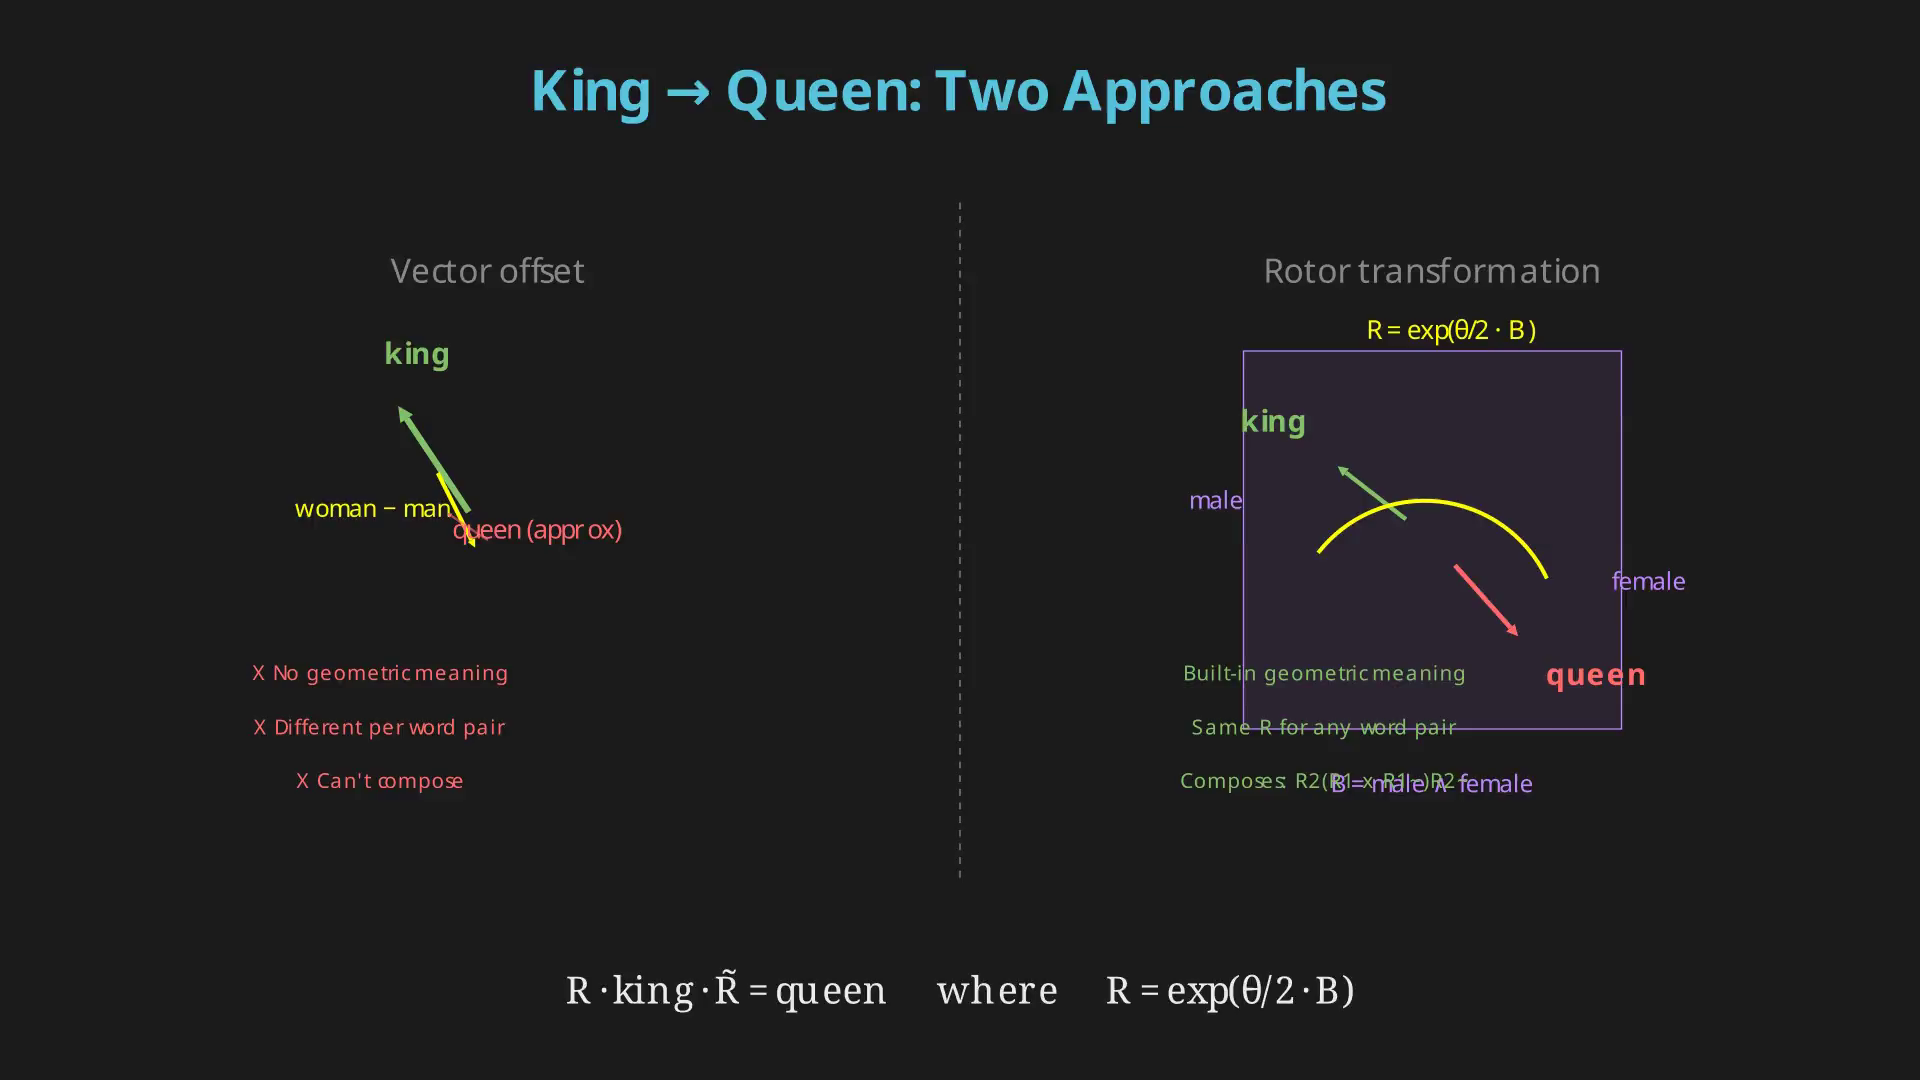
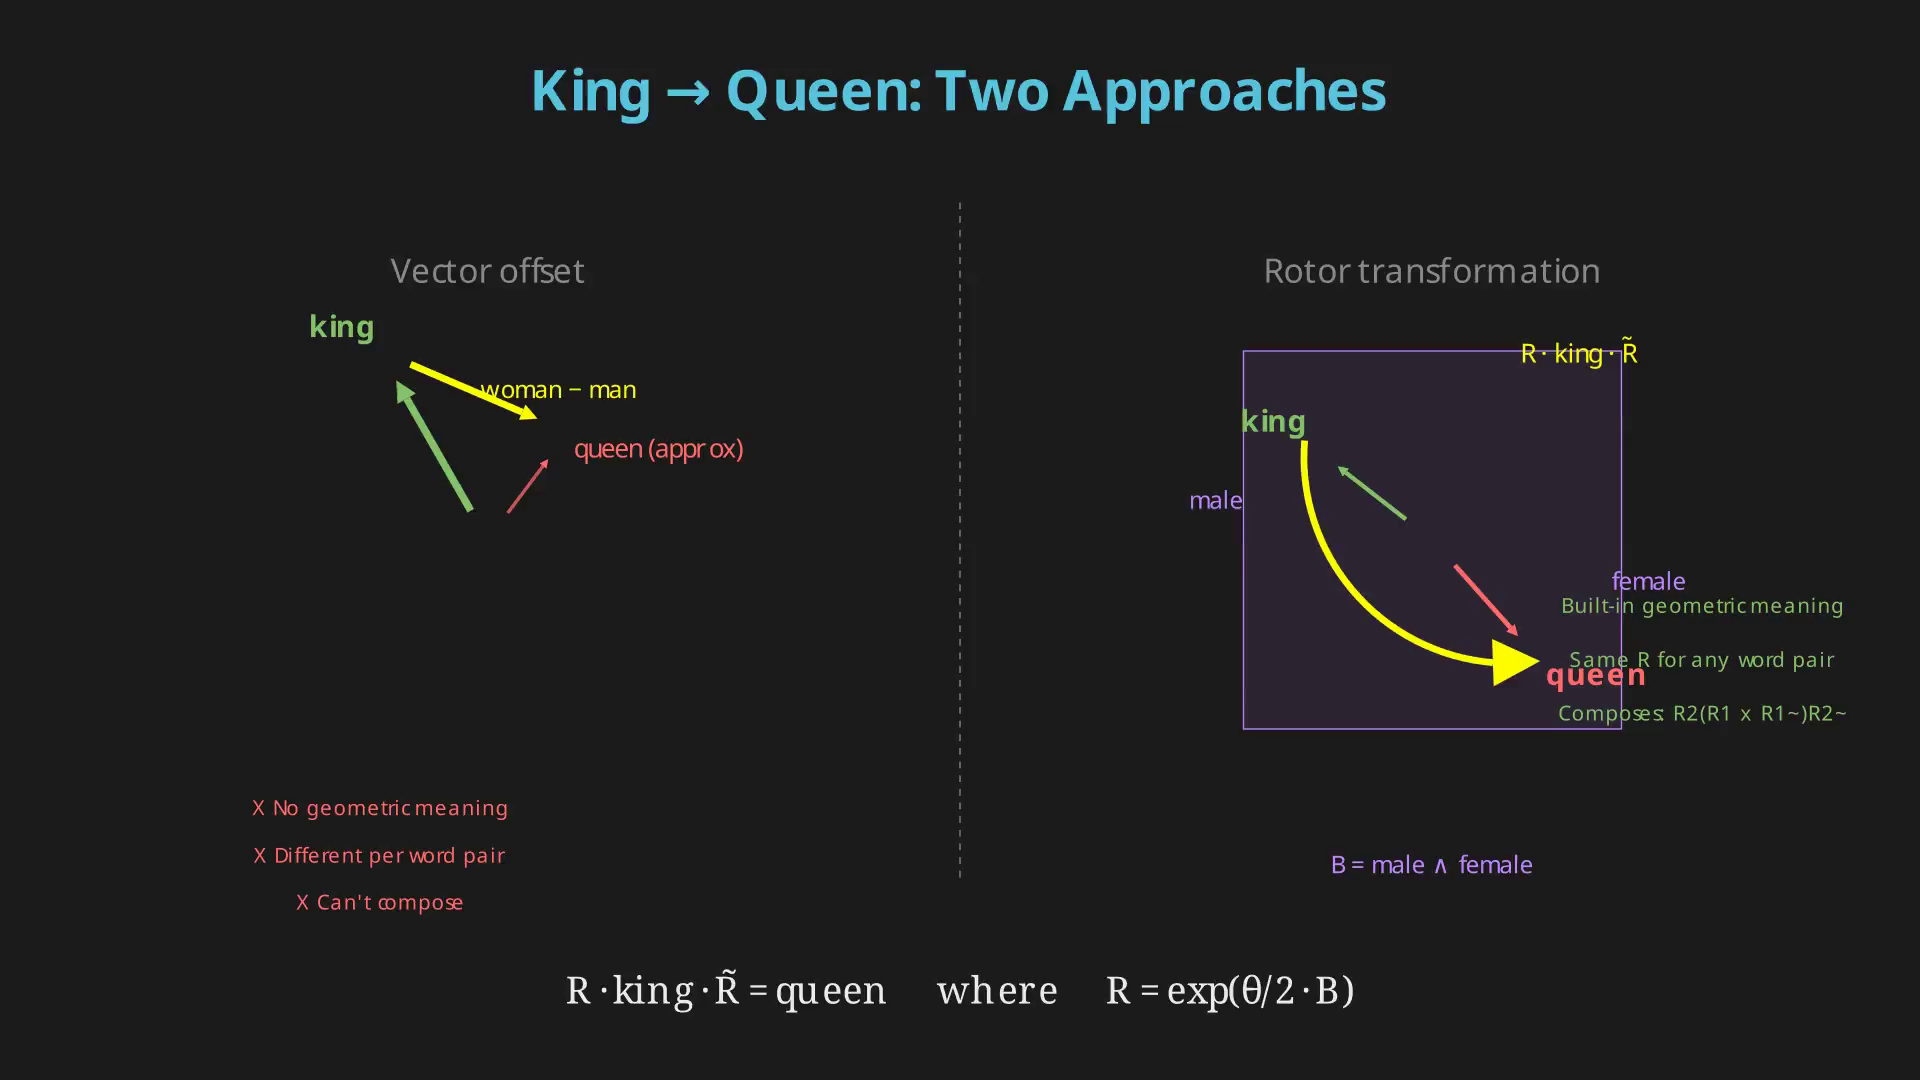
fix king-queen illustration: bolder vectors, proper rotation arc, fix overlaps

diff --git a/visualizations/king_queen_rotor.py b/visualizations/king_queen_rotor.py
@@ -43,31 +43,30 @@ class KingQueenRotor(Scene):
         panel1_title.move_to([lx, 2.0, 0])
         self.add(panel1_title)
 
-        # King vector
-        k_vec = np.array([-0.8, 1.2, 0.0])
+        # King vector (up-left, bold)
+        k_vec = np.array([-0.8, 1.4, 0.0])
         k_arrow = Arrow(start=[lx, ly, 0], end=[lx + k_vec[0], ly + k_vec[1], 0],
-                        color=GREEN, stroke_width=7, max_tip_length_to_length_ratio=0.12)
+                        color=GREEN, stroke_width=9, max_tip_length_to_length_ratio=0.14)
         k_lab = Text("king", font=MONO, font_size=16, color=GREEN, weight=BOLD)
-        k_lab.next_to([lx + k_vec[0], ly + k_vec[1], 0], UP + RIGHT, buff=0.05)
+        k_lab.next_to([lx + k_vec[0], ly + k_vec[1], 0], UP + LEFT, buff=0.05)
         self.add(k_arrow, k_lab)
 
-        # Gender offset vector
-        g_vec = np.array([0.5, -1.0, 0.0])
-        g_arrow = Arrow(start=[lx + k_vec[0] * 0.6, ly + k_vec[1] * 0.6, 0],
-                        end=[lx + k_vec[0] * 0.6 + g_vec[0], ly + k_vec[1] * 0.6 + g_vec[1], 0],
-                        color=ACCENT, stroke_width=5, max_tip_length_to_length_ratio=0.1)
+        # Gender offset vector (right-down — clearly different direction)
+        g_vec = np.array([1.4, -0.6, 0.0])
+        g_start = np.array([lx + k_vec[0], ly + k_vec[1], 0])
+        g_arrow = Arrow(start=g_start,
+                        end=g_start + g_vec,
+                        color=ACCENT, stroke_width=7, max_tip_length_to_length_ratio=0.12)
         g_lab = Text("woman \u2212 man", font=MONO, font_size=13, color=ACCENT)
-        g_lab.next_to([lx + k_vec[0] * 0.6 + g_vec[0] * 0.5,
-                       ly + k_vec[1] * 0.6 + g_vec[1] * 0.5, 0],
-                      LEFT, buff=0.05)
+        g_lab.next_to(g_start + g_vec * 0.5, RIGHT, buff=0.05)
         self.add(g_arrow, g_lab)
 
         # Result: queen (approximate)
         q_vec = k_vec + g_vec
         q_arrow = Arrow(start=[lx, ly, 0],
                         end=[lx + q_vec[0], ly + q_vec[1], 0],
-                        color=RED, stroke_width=5, max_tip_length_to_length_ratio=0.1,
-                        stroke_opacity=0.6)
+                        color=RED, stroke_width=8, max_tip_length_to_length_ratio=0.13,
+                        stroke_opacity=0.75)
         q_lab = Text("queen (approx)", font=MONO, font_size=14, color=RED)
         q_lab.next_to([lx + q_vec[0], ly + q_vec[1], 0], DOWN + RIGHT, buff=0.05)
         self.add(q_arrow, q_lab)
@@ -80,7 +79,7 @@ class KingQueenRotor(Scene):
             "X Can't compose"
         ]):
             t = Text(label, font=MONO, font_size=11, color=RED)
-            t.move_to([cx1, -1.0 - 0.4 * i, 0])
+            t.move_to([cx1, -2.0 - 0.35 * i, 0])
             self.add(t)
 
         # ══════════════════════════════════════════════════════════
@@ -114,46 +113,56 @@ class KingQueenRotor(Scene):
         rk_lab.next_to([rx + rk_vec[0], ry + rk_vec[1], 0], UP + LEFT, buff=0.05)
         self.add(rk_arrow, rk_lab)
 
-        # Rotation arc
-        rot_angle = -PI * 0.65
-        start_angle = np.arctan2(rk_vec[1], rk_vec[0])
-        arc = Arc(
-            radius=1.0, start_angle=start_angle, angle=rot_angle,
-            color=ACCENT, stroke_width=3
-        )
-        arc.move_to([rx, ry, 0])
-        self.add(arc)
+        # Queen result (define here for arc calculation)
+        rq_vec = np.array([0.8, -0.9, 0.0])
 
-        # Rotor label on arc
-        rotor_lab = Text("R = exp(\u03b8/2 \u00b7 B)", font=MONO, font_size=14, color=ACCENT)
-        mid_angle = start_angle + rot_angle / 2
-        rotor_lab.next_to([rx + 1.3 * np.cos(mid_angle),
-                           ry + 1.3 * np.sin(mid_angle), 0],
-                          UP, buff=0.15)
+        # Rotation arc with arrow (king direction -> queen direction)
+        arc_radius = 1.2
+        k_angle = np.arctan2(rk_vec[1], rk_vec[0])
+        q_angle = np.arctan2(rq_vec[1], rq_vec[0])
+        # Shortest rotation from king to queen (clockwise)
+        arc_angle = q_angle - k_angle
+        if arc_angle > 0:
+            arc_angle -= TAU  # force clockwise
+        k_pt = np.array([rx + arc_radius * np.cos(k_angle),
+                         ry + arc_radius * np.sin(k_angle), 0])
+        q_pt = np.array([rx + arc_radius * np.cos(q_angle),
+                         ry + arc_radius * np.sin(q_angle), 0])
+        rot_arc = CurvedArrow(
+            k_pt, q_pt,
+            color=ACCENT, stroke_width=5,
+        )
+        self.add(rot_arc)
+
+        # Rotor label above the arc
+        mid_angle = k_angle + arc_angle / 2
+        rotor_lab = Text("R \u00b7 king \u00b7 R\u0303", font=MONO, font_size=14, color=ACCENT)
+        rotor_lab.next_to([rx + (arc_radius + 0.4) * np.cos(mid_angle),
+                           ry + (arc_radius + 0.4) * np.sin(mid_angle), 0],
+                          UP, buff=0.1)
         self.add(rotor_lab)
 
-        # Bivector label
+        # Bivector label (below plane)
         biv_lab = Text("B = male \u2227 female", font=MONO, font_size=13, color=PURPLE)
-        biv_lab.move_to([rx, ry - 1.8, 0])
+        biv_lab.move_to([rx, -2.4, 0])
         self.add(biv_lab)
 
-        # Queen result
-        rq_vec = np.array([0.8, -0.9, 0.0])
+        # Queen result (arrow)
         rq_arrow = Arrow(start=[rx, ry, 0], end=[rx + rq_vec[0], ry + rq_vec[1], 0],
                          color=RED, stroke_width=7, max_tip_length_to_length_ratio=0.12)
         rq_lab = Text("queen", font=MONO, font_size=16, color=RED, weight=BOLD)
         rq_lab.next_to([rx + rq_vec[0], ry + rq_vec[1], 0], DOWN + RIGHT, buff=0.05)
         self.add(rq_arrow, rq_lab)
 
-        # Checkmarks
-        ckx = rx - 0.8
+        # Checkmarks (right of panel)
+        ckx = 5.5
         for i, label in enumerate([
             "Built-in geometric meaning",
             "Same R for any word pair",
             "Composes: R2(R1 x R1~)R2~"
         ]):
             t = Text(label, font=MONO, font_size=11, color=GREEN)
-            t.move_to([ckx, -1.0 - 0.4 * i, 0])
+            t.move_to([ckx, -0.5 - 0.4 * i, 0])
             self.add(t)
 
         # ── Bottom formula ─────────────────────────────────────────
